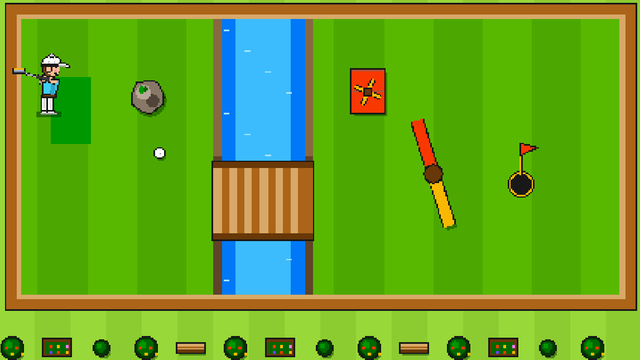
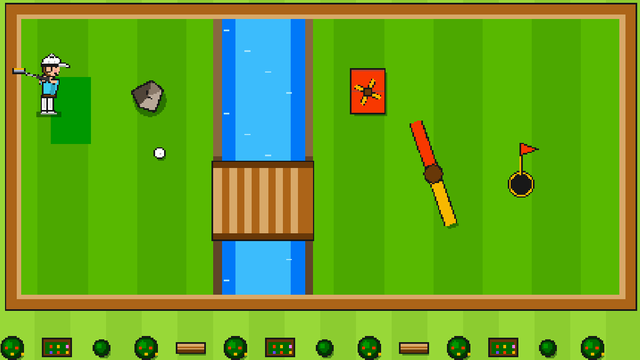
Mini Golf: aim turns the whole circle, flag on top of obstacles, dotted aim line without arrow, clearer rock and brick wall

diff --git a/docs/games/mini_golf.md b/docs/games/mini_golf.md
@@ -33,7 +33,7 @@ Rules and turns
 | REQ-MG-1 | The game has 1 to 4 players. A match is a number of holes chosen in the settings (REQ-MG-12), 1 to 5, default 3. | Done | run_tests |
 | REQ-MG-2 | **Turns.** Only the ball of the player whose turn it is is drawn, white, with no ring and no flashing border (2026-11-03, owner decision: the balls of the others were drawn in rings of their slot colors for a few hours of that day, and before that none was): where its last putt stopped, or on the tee at the start of a hole. Only that player has a golfer, by the ball (REQ-MG-16). The balls of the others stay in the data and are not on the screen. A ball that is in the cup or picked up is taken off the course. Each player putts once, in slot order, and the round repeats until every ball is in the hole or has been picked up (REQ-MG-8). A player who is already in the hole is skipped. The order is the slot order on every hole (it does not change with the score). | Done | run_tests (turn order), smoke_golf |
 | REQ-MG-3 | A bar at the bottom (its chips and the frame of the player on turn end at the 60 px margin, issue #223) shows every player (slot color square, name, strokes on this hole) and marks the player whose turn it is. The top shows the hole number, the number of holes and the par. The course never lies under the bar or the chips: it ends 12 px above the first row of chips (a second row of chips makes the room 72 px smaller, REQ-MG-18). A banner says whose turn it is for 1.5 s (`TURN_BANNER`, between 1.0 and 2.0 s is the tolerance of Test 26 step 3c; "MAYA'S TURN", text rows to be reviewed). The banner plate (and the hint and the result banner) stands where it covers the cup with its flag, the balls, the golfer and the aim line least, and keeps away from the obstacles if it can (`GolfLook.plate_at()`, 2026-11-03). The phones of the others show a short wait text. The pad of a phone has one button, **A**, that locks the aim (REQ-MG-4). The putt banner (1.8 s) and the hole card (4.0 s) go on by themselves: A does not skip them (owner, 2026-11-03: A only skipped them, and nothing said what it was for). A chip is as wide as its text needs (nothing is cut, issue #246); when the chips do not fit one row the bar gets a second row above the first (`bar_lines()`). | Done | smoke_golf |
-| REQ-MG-4 | **Aim.** In the aim phase the phone direction (its turning left and right, not its tilt) moves an aim marker along the ground on the TV. The general direction is shown to the player (the length and the look depend on the difficulty, REQ-MG-13). The aim line is as long on the screen as the putt on the course (Easy 3.0, Medium 1.2 course units, Hard only a marker 0.6 from the ball) at every distance, and it stops at the wall. It is easy to read from the sofa (owner, 2026-11-03: it was hard to point the direction): a light lane 24 px wide under 10 px dots 36 px apart, and an arrow (about 44 px wide) at its end, smaller than the first version (owner, 2026-11-03: too big); the dots and the arrow have one size. **Snap to the cup (2026-11-03):** when the aim is within `SNAP` 0.1 rad (about 6 degrees) of the direction to the cup, it goes to the cup exactly and the arrow is green (a locked aim is gold). **A locks the aim (2026-11-03, owner):** a press on A locks the direction where it is, so that the phone can be moved for the wind-up; a second press unlocks it, and the aim follows the phone again. While it is locked a hint plate says so (`mini_golf.hint_aim_locked`). A press during the back swing, and an A that was held from before the turn, do nothing. The lock by A ends when the turn ends. The course runs from the tee at the left to the cup at the right, so a turn of the phone to the right aims clockwise (down the screen) and to the left up the screen (`GolfLook.Geo.dir()`). When the player begins the backswing (the first clear movement back), the direction **locks** and stays locked until the ball stops. The pose of the phone at the start of every turn is the straight-ahead direction (the game recenters by itself; the pad has no Recenter box, REQ-GM-37a). | Device | run_tests (lock), Device (Test 26 steps 16a, 16b) |
+| REQ-MG-4 | **Aim.** In the aim phase the phone direction (its turning left and right, not its tilt) moves an aim marker along the ground on the TV. The general direction is shown to the player (the length and the look depend on the difficulty, REQ-MG-13). The aim line is as long on the screen as the putt on the course (Easy 3.0, Medium 1.2 course units, Hard only a marker 0.6 from the ball) at every distance, and it stops at the wall. It is easy to read from the sofa (owner, 2026-11-03: it was hard to point the direction): a light lane 24 px wide under 10 px dots 36 px apart. There is no arrow: a dotted line is enough (owner, 2026-11-04). Hard shows the dotted line of the marker length only. **Snap to the cup (2026-11-03):** when the aim is within `SNAP` 0.1 rad (about 6 degrees) of the direction to the cup, it goes to the cup exactly and the dots are green (a locked aim is gold). **A locks the aim (2026-11-03, owner):** a press on A locks the direction where it is, so that the phone can be moved for the wind-up; a second press unlocks it, and the aim follows the phone again. While it is locked a hint plate says so (`mini_golf.hint_aim_locked`). A press during the back swing, and an A that was held from before the turn, do nothing. The lock by A ends when the turn ends. The course runs from the tee at the left to the cup at the right, so a turn of the phone to the right aims clockwise (down the screen) and to the left up the screen (`GolfLook.Geo.dir()`). **The aim turns the whole circle (owner, 2026-11-04: it was impossible to hit back; the old limit of 1.2 rad could not even point at the cup on the turn of hole 3):** the putt can go back or to the side. When the player begins the backswing (the first clear movement back), the direction **locks** and stays locked until the ball stops. The pose of the phone at the start of every turn is the straight-ahead direction (the game recenters by itself; the pad has no Recenter box, REQ-GM-37a). | Device | run_tests (lock), Device (Test 26 steps 16a, 16b) |
 | REQ-MG-5 | **Power.** The swing speed sets the power (`scripts/input/swing_detector.gd`, the shared detector of Pin Pals and Tennis, REQ-BW-5, 6 and REQ-TN-5 to 9; the swing is found on the TV, no protocol change). **Light swings (2026-11-03, owner: a light swing was not found, and the golfer swung but the game said the swing was not found and the ball did not move):** a putt close to the hole is a light swing, so Mini Golf sets lower strengths in its own detector (`SwingDetector.back_accel` 3.0 and `fwd_accel` 5.0 m/s2, the speed gate stays 0.5 m/s and `fwd_full` 30; the defaults of the detector, 4, 8 and 0.5 are unchanged and stay the values of Pin Pals and Tennis). The weakest swing that counts gives the weakest putt (`speed_min` of the level). A move to the side, a slow shake and walking are still stopped by the speed gate. A weak swing gives a short putt, a strong swing a long one. A swing that is only a small movement is not a putt (no stroke, the player tries again). A swing is not accepted before the direction is locked. **Speed gate (2026-11-01, issue #209):** the forward push counts only when the hand moves forward at 0.5 m/s or more (`SwingDetector.GATE_SPEED`, times the level factor): a move to the side, a slow shake, walking and the brake at the stop of the back swing end with the hand about stopped and are not a putt. A very fast sweep or a very hard shake can still putt (no recording to tell it from a hard putt, Test 26 steps 16h, 16i). | Device | run_tests, Device (Test 26 steps 16c, 16d) |
 | REQ-MG-6 | **Strokes and holes.** Every putt that is accepted counts one stroke. The ball is in when it stops or passes slowly over the hole. A hole ends when all balls are in or picked up. Hole result words: BIRDIE (one under par), PAR, BOGEY (one over), and the plain number for the rest. A hole in one is "HOLE IN ONE!". Words are kind (REQ-GM-84). | Done | run_tests |
 | REQ-MG-7 | **The winner** has the fewest strokes over all holes of the match. A tie is shown as a tie. The end is `open_results()` (REQ-GM-72) with the strokes as the score (fewer is better) and Try again, New game, Back to menu. | Done | smoke_golf |
@@ -52,7 +52,7 @@ Holes and settings
 | REQ-MG-15 | **No personal best in this version.** The key table of the profile (`profile_keys.gd`) has a limited size, and the saved number would be strokes (fewer is better). `best_key()` returns "". A key `mini_golf|<difficulty>|<holes>` can be added later. | Done | smoke_golf (`best_key()`) |
 | REQ-MG-16 | The golfer is a friendly kid with a white cap, white trousers and shoes and a shirt in the slot color, seen from the side and a little from above, facing the cup. He is small (about 160 px high, one size on every hole), stands left of the ball of the player on turn with the putter head at the ball, and stays where the putt started while the ball rolls. His swing is the same (`golf_look.gd` `aim_pose()` and `swing_pose()`). A full swing is animated: address, backswing (when the direction locks), downswing, hit, follow-through and finish, mixed smoothly. The putter has a dark grip, a steel shaft and a steel head with a gold top line. The animation is played by the TV when the swing is found; it is not a live copy of the arm (the detector reports a swing a few samples after the hit). The ball starts at once, and the phone buzzes (30 ms, a strong putt 60 ms). | Device | smoke_golf, Device (Test 26 steps 16f, 16g) |
 | REQ-MG-17 | Safety (REQ-GM-102, issue #79): Mini Golf is a swing game (`swing` in the registry). The settings view shows the safety line, each phone shows the card "HOLD ON TIGHT!" every time the settings view opens, and Start waits for the OK of every phone. | Done | swing_setup, ui_states_a |
-| REQ-MG-18 | **The view (2026-11-03, owner decision, `docs/MINI_GOLF_REDESIGN.md` option A).** The course is seen from above, from the tee at the left to the cup at the right (hole 3 turns down). Each hole is scaled **once** (`GolfLook.Geo`): the whole hole with its walls is inside the 60 px margin, under the black bar (112 px) and above the chips of the bar (the room is 1800 by 820 px with one row of chips, 748 px with two), and one side of it fills the room; the scale is at least 200 px for a course unit (hole 3, the smallest, is 211). There is no perspective and no zoom: a course unit is as long near the tee as at the cup, so nothing changes size while the players putt. The obstacles are drawn flat, as the camera sees them from straight above (owner, 2026-11-03: the front faces did not look right from this angle): a brick wall shows the rows of its bricks, a sliding barrier its stripes, a windmill its roof with blades that stay inside the block (the block is what the ball hits). The ball is **32 px** wide with its outline, an exception to REQ-GM-47m for this game (owner, 2026-11-03: 48 was too big; the cup is 64 px) on every hole, the cup is at least 8 px wider than the ball (it is the real cup of 0.2 course units, and never smaller than 64 px), the golfer is one size. The simulation, the rules and the hole data do not know the view. | Device | golf_view, smoke_golf_phones, Device (Test 26 steps 14d, 14e) |
+| REQ-MG-18 | **The view (2026-11-03, owner decision, `docs/MINI_GOLF_REDESIGN.md` option A).** The course is seen from above, from the tee at the left to the cup at the right (hole 3 turns down). Each hole is scaled **once** (`GolfLook.Geo`): the whole hole with its walls is inside the 60 px margin, under the black bar (112 px) and above the chips of the bar (the room is 1800 by 820 px with one row of chips, 748 px with two), and one side of it fills the room; the scale is at least 200 px for a course unit (hole 3, the smallest, is 211). There is no perspective and no zoom: a course unit is as long near the tee as at the cup, so nothing changes size while the players putt. The obstacles are drawn flat, as the camera sees them from straight above (owner, 2026-11-03: the front faces did not look right from this angle): a brick wall shows the rows of its red bricks with light mortar, a rock is a grey boulder with a light and a dark side and a crack, a sliding barrier its stripes (owner, 2026-11-04: the grey circle and the brown box were not clear; they look different now, to be confirmed on a TV), the flag is drawn on top of every obstacle so that a sliding barrier never hides it, a windmill its roof with blades that stay inside the block (the block is what the ball hits). The ball is **32 px** wide with its outline, an exception to REQ-GM-47m for this game (owner, 2026-11-03: 48 was too big; the cup is 64 px) on every hole, the cup is at least 8 px wider than the ball (it is the real cup of 0.2 course units, and never smaller than 64 px), the golfer is one size. The simulation, the rules and the hole data do not know the view. | Device | golf_view, smoke_golf_phones, Device (Test 26 steps 14d, 14e) |
 | REQ-MG-19 | **The park.** Scenery stands round the course as a border, smaller than before: trees, flower beds and benches along the free edges of the screen, and on a hole with room (holes 3 and 5) a clubhouse and a hot air balloon. It stands only outside the walls (44 px apart), never under the black bar or the chips, and never hides the course. The ground is the same for every hole; the course is drawn from the hole data (walls, mown stripes, tee mat, lake with stones, bridge, cup with a gold rim and a flag at its rim, rocks, brick walls, the windmill, sliding barriers and turning blades) and is never mirrored in Hebrew (REQ-GM-47o). | Done | golf_view (the scenery), r4_golf |
 
 ## Parameters
@@ -63,7 +63,7 @@ Holes and settings
 | Power hint at the swing | yes | no | no | |
 | Weakest swing that moves the ball far enough for a short hole | helped | normal | normal | |
 
-Values in code (first guesses): aim range 1.2 rad to each side; weakest putt 1.5 / 0.5 / 0.3 m/s and strongest 4.5 m/s; swing threshold factor 1.0 on every level (it was 0.7 on Easy until 2026-11-03: the light base strengths of REQ-MG-5 replace it, and 0.7 let walking putt); aim line 3.0 / 1.2 / 0 course units (`mini_golf_game.gd` `LEVELS`, `golf_sim.gd`). Other first guesses: stroke limit 6 (REQ-MG-8); the turn banner 1.5 s; 5 holes with par 2 to 4. All values are tuned on a device (`docs/MANUAL_TESTS.md`, Test 26).
+Values in code (first guesses): aim range the whole circle; weakest putt 1.5 / 0.5 / 0.3 m/s and strongest 4.5 m/s; swing threshold factor 1.0 on every level (it was 0.7 on Easy until 2026-11-03: the light base strengths of REQ-MG-5 replace it, and 0.7 let walking putt); aim line 3.0 / 1.2 / 0 course units (`mini_golf_game.gd` `LEVELS`, `golf_sim.gd`). Other first guesses: stroke limit 6 (REQ-MG-8); the turn banner 1.5 s; 5 holes with par 2 to 4. All values are tuned on a device (`docs/MANUAL_TESTS.md`, Test 26).
 
 ## Languages and texts (REQ-GM-47o)
 
